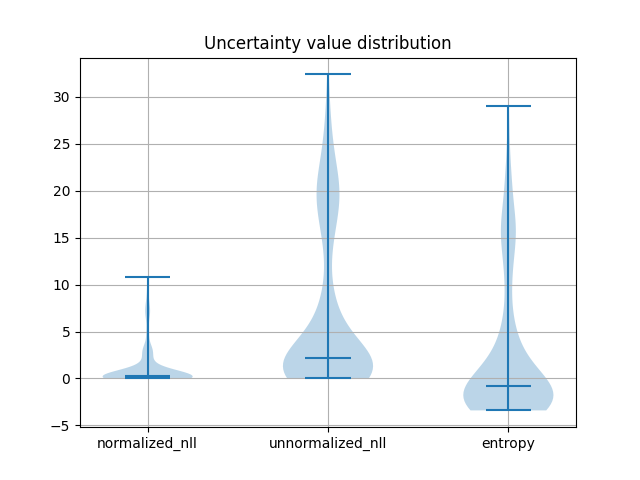
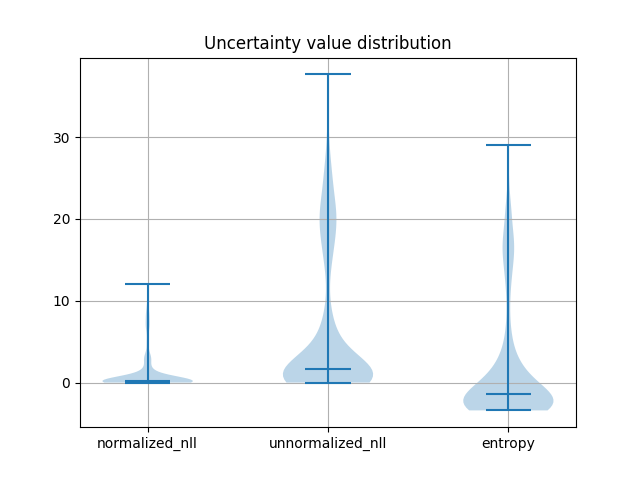
stash

diff --git a/run/analysis.py b/run/analysis.py
@@ -6,6 +6,7 @@ import matplotlib.pyplot as plt
 import pandas as pd
 import numpy as np
 import json
+from sklearn.metrics import roc_curve
 from utils import make_plots
 from metrics import correctness
 epsilon = 1e-3
@@ -26,7 +27,7 @@ if __name__ == '__main__':
     SCORE = correctness.Score(metric_name=args.correctness, mode=args.mode)
 
     for file_name in file_names:
-        if "previous" not in file_name:
+        if "previous" in file_name:
             continue
         print(f'Loading {file_name}')
         model, dataset, method = file_name.split('_')[1:]
@@ -82,3 +83,34 @@ if __name__ == '__main__':
         plt.grid()
         plt.savefig(f'../tmp/confidence_histogram_{model}_{dataset}_{method}.png')
         
+        if 'entropy' in indicators:
+            fig, ax = plt.subplots()
+            threshold = 0.5
+            y_true = correctness >= threshold
+            y_score = -df['entropy']
+            # plot roc curve
+            fpr, tpr, _ = roc_curve(y_true, y_score)
+            ax.plot(fpr, tpr, label='ROC curve')
+            ax.plot([0, 1], [0, 1], 'k--', label='Random')
+            ax.set_xlabel('False Positive Rate')
+            ax.set_ylabel('True Positive Rate')
+            ax.set_title('ROC curve')
+            ax.legend()
+            ax.grid()
+            plt.savefig(f'../tmp/roc_curve_{model}_{dataset}_{method}.png')
+        
+        if 'degree' in indicators:
+            fig, ax = plt.subplots()
+            threshold = 0.5
+            y_true = correctness >= threshold
+            y_score = -df['degree']
+            # plot roc curve
+            fpr, tpr, _ = roc_curve(y_true, y_score)
+            ax.plot(fpr, tpr, label='ROC curve')
+            ax.plot([0, 1], [0, 1], 'k--', label='Random')
+            ax.set_xlabel('False Positive Rate')
+            ax.set_ylabel('True Positive Rate')
+            ax.set_title('ROC curve')
+            ax.legend()
+            ax.grid()
+            plt.savefig(f'../tmp/roc_curve_{model}_{dataset}_{method}_degree.png')

diff --git a/tests/test_blackbox_indicators.py b/tests/test_blackbox_indicators.py
@@ -14,13 +14,17 @@ if __name__ == '__main__':
     prompt = 'Answer the following question shortly according to the context: Who was the man behind The Chipmunks?[SEP] Context: A struggling songwriter named Dave Seville finds success when he comes across a trio of singing chipmunks: ... Title: Alvin and the Chipmunks (2007) ...[SEP] Answer: '
 
     generations = ['Dave Seville', 'Dave Seville', 'Dave Seville', 'Dave Seville', 'Dave Seville', 'Dave Seville was the man behind The Chipmunks', 'Dave Seville', 'Dave Seville', 'Dave Seville', 'Dave Seville', 'Dave Seville', 'Dave Seville', 'Dave Seville', 'Dave Seville', 'Dave Seville', 'Dave Seville', 'Dave Seville', 'Ross Bagdasarian Sr', 'Dave Seville', 'Dave Seville', 'Dave Seville', 'Dave Seville', 'Dave Seville', 'Dave Seville', 'Dave Seville', 'The man behind The Chipmunks was Dave Seville', 'Ross Bagdasarian Sr', 'The man behind The Chipmunks was Dave Seville', 'Dave Seville', 'Ross Bagdasarian, Sr']
+    generations = ['biden', 'biden', 'trump', 'trump', 'reagan'] * 6
+    breakpoint() 
     sim = blackbox.jaccard_similarity([generations])
     
-    ecc = blackbox.Eccentricity(affinity_mode='jaccard')
+    ecc = blackbox.Eccentricity(affinity_mode='disagreement')
     ecc_u, ecc_c = ecc.compute_scores([prompt], [generations])
+    breakpoint()
 
-    degree = blackbox.Degree(affinity_mode='jaccard')
+    degree = blackbox.Degree(affinity_mode='disagreement')
     degree_u, degree_c= degree.compute_scores([prompt], [generations])
 
-    spectral = blackbox.SpectralEigv(affinity_mode='jaccard', temperature=None)
+    spectral = blackbox.SpectralEigv(affinity_mode='disagreement', temperature=1.0)
     spectral_u = spectral.compute_scores([prompt], [generations])
+    breakpoint()

diff --git a/indicators/blackbox.py b/indicators/blackbox.py
@@ -128,7 +128,8 @@ class Eccentricity(BlackBox):
         batch_sim_mats = jaccard_similarity(batch_responses) if self.affinity_mode == 'jaccard' else self.sm.similarity_mat(batch_prompts, batch_responses)
         batch_projected = spectral_projected(self.affinity_mode, batch_sim_mats, threshold=0.1)
         batch_Cs = [-np.linalg.norm(projected-projected.mean(0)[None, :],2,axis=1) for projected in batch_projected]
-        batch_U = [np.linalg.norm(projected-projected.mean(0)[None, :],2).clip(-1, 1) for projected in batch_projected]
+        # batch_U = [np.linalg.norm(projected-projected.mean(0)[None, :],2).clip(-1, 1) for projected in batch_projected]
+        batch_U = [np.linalg.norm(projected-projected.mean(0)[None, :], 2) for projected in batch_projected]
         return batch_U, batch_Cs
     
 class Degree(BlackBox):
@@ -161,7 +162,7 @@ class SpectralEigv(BlackBox):
             self.consistency = jaccard_similarity
         else:
             nlimodel = opensource.NLIModel(device='cuda')
-            self.consistency = SemanticConsistency(nlimodel).similarity_mat
+            self.sm = SemanticConsistency(nlimodel)
 
     def compute_scores(self, batch_prompts, batch_responses, **kwargs):
         sim_mats = jaccard_similarity(batch_responses) if self.affinity_mode == 'jaccard' else self.sm.similarity_mat(batch_prompts, batch_responses)
